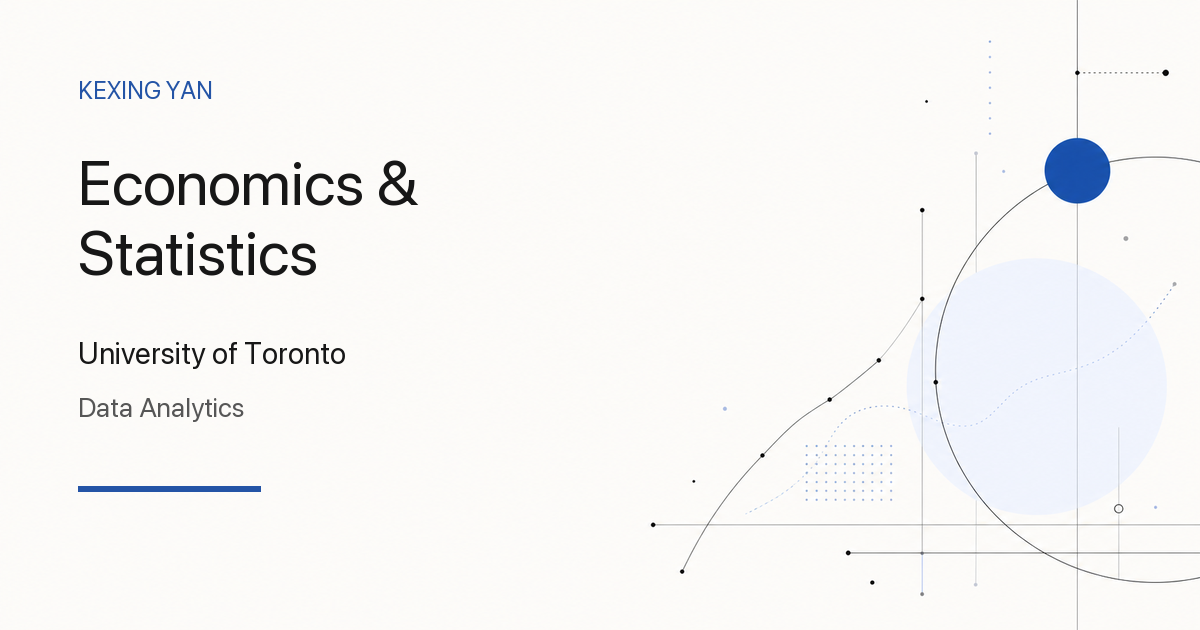
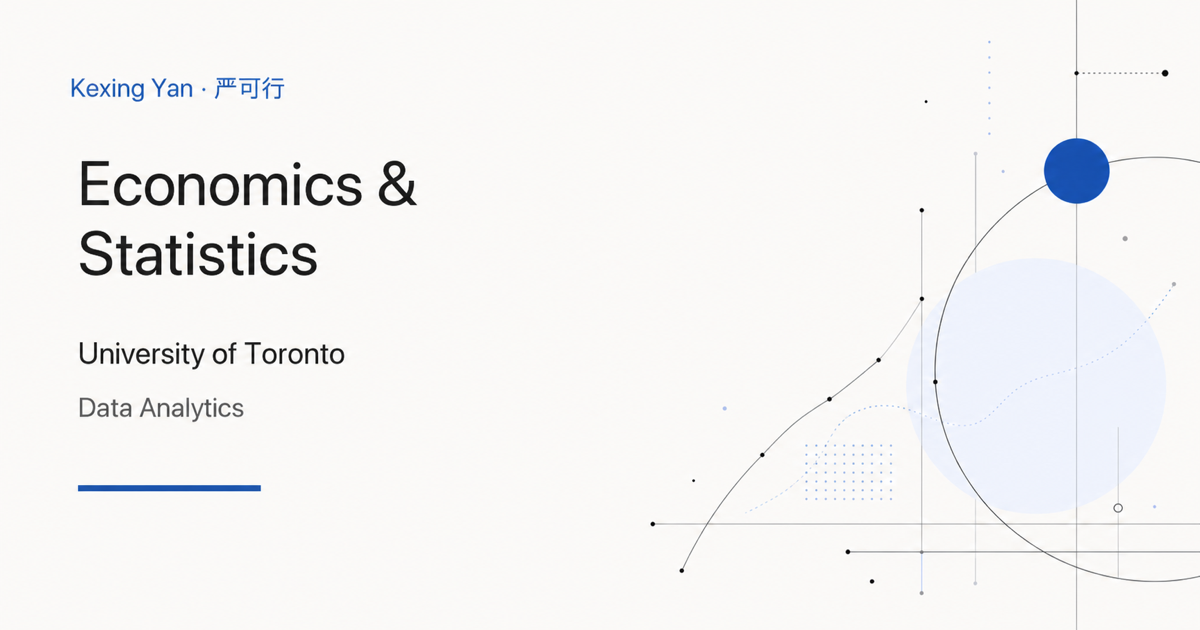
Add Chinese name to site identity

diff --git a/index.html b/index.html
@@ -5,7 +5,7 @@
   <meta name="viewport" content="width=device-width, initial-scale=1.0" />
   <title>Kexing Yan | Economics &amp; Statistics Student at University of Toronto</title>
   <meta name="description" content="Official portfolio of Kexing Yan, an Honours BSc student at the University of Toronto studying Economics and Statistics with a focus on Data Analytics, econometrics, and applied research." />
-  <meta name="author" content="Kexing Yan" />
+  <meta name="author" content="Kexing Yan / 严可行" />
   <meta name="robots" content="index, follow, max-image-preview:large, max-snippet:-1, max-video-preview:-1" />
   <meta name="theme-color" content="#fbfbf8" />
   <link rel="canonical" href="https://kexingyan.com/" />
@@ -19,13 +19,13 @@
   <meta property="og:image" content="https://kexingyan.com/assets/images/kexing-yan-open-graph.png" />
   <meta property="og:image:width" content="1200" />
   <meta property="og:image:height" content="630" />
-  <meta property="og:image:alt" content="Kexing Yan — Economics and Statistics, University of Toronto, Data Analytics" />
+  <meta property="og:image:alt" content="Kexing Yan · 严可行 — Economics and Statistics, University of Toronto, Data Analytics" />
 
   <meta name="twitter:card" content="summary_large_image" />
   <meta name="twitter:title" content="Kexing Yan | Economics &amp; Statistics Student" />
   <meta name="twitter:description" content="Official portfolio of Kexing Yan, a University of Toronto student focused on Economics, Statistics, and Data Analytics." />
   <meta name="twitter:image" content="https://kexingyan.com/assets/images/kexing-yan-open-graph.png" />
-  <meta name="twitter:image:alt" content="Kexing Yan — Economics and Statistics, University of Toronto, Data Analytics" />
+  <meta name="twitter:image:alt" content="Kexing Yan · 严可行 — Economics and Statistics, University of Toronto, Data Analytics" />
 
   <!--
     Search verification: add real tokens here only after receiving them.
@@ -68,6 +68,7 @@
         "@type": "Person",
         "@id": "https://kexingyan.com/#person",
         "name": "Kexing Yan",
+        "alternateName": "严可行",
         "url": "https://kexingyan.com/",
         "description": "Honours BSc student at the University of Toronto studying Economics and Statistics with a focus on Data Analytics.",
         "jobTitle": "Economics and Statistics Student",
@@ -638,7 +639,7 @@
 
   <header class="site-header">
     <nav class="nav" aria-label="Primary navigation" data-i18n-attr="aria-label:nav.aria">
-      <a class="brand" href="#top">Kexing Yan</a>
+      <a class="brand" href="#top">Kexing Yan · 严可行</a>
       <div class="nav-right">
         <ul class="nav-links">
           <li><a href="#about" data-i18n="nav.about">About</a></li>
@@ -664,7 +665,7 @@
         <p class="eyebrow" data-i18n="hero.eyebrow">Open to Summer 2027 internships</p>
         <h1 id="intro-title" data-i18n="hero.title">Statistics and Economics student focused on applied data work.</h1>
         <p class="hero-summary" data-i18n="hero.summary">
-          I am Kexing Yan, an Honours BSc student at the University of Toronto, St. George Campus, double-majoring in Economics and Statistics with a focus on Data Analytics. My interests include econometrics, applied data analysis, financial research, and clear, evidence-based research questions.
+          I am Kexing Yan (严可行), an Honours BSc student at the University of Toronto, St. George Campus, double-majoring in Economics and Statistics with a focus on Data Analytics. My interests include econometrics, applied data analysis, financial research, and clear, evidence-based research questions.
         </p>
         <div class="hero-actions">
           <a class="button" href="#research" data-i18n="hero.viewResearch">View research</a>
@@ -887,7 +888,7 @@
           // Hero
           "hero.eyebrow": "正在寻找 2027 年暑期实习",
           "hero.title": "专注于应用数据工作的统计学与经济学学生。",
-          "hero.summary": "我是 Kexing Yan，University of Toronto（圣乔治校区）理学荣誉学士在读，经济学与统计学双专业，专业方向为数据分析。我的兴趣包括计量经济学、应用数据分析、金融研究，以及清晰、基于证据的研究问题。",
+          "hero.summary": "我是严可行（Kexing Yan），现就读于 University of Toronto（圣乔治校区），攻读理学荣誉学士学位，主修经济学与统计学，专业方向为数据分析。我的兴趣包括计量经济学、应用数据分析、金融研究，以及清晰、基于证据的研究问题。",
           "hero.viewResearch": "查看研究",
           "hero.emailMe": "发邮件给我",
           "hero.resume": "简历",
